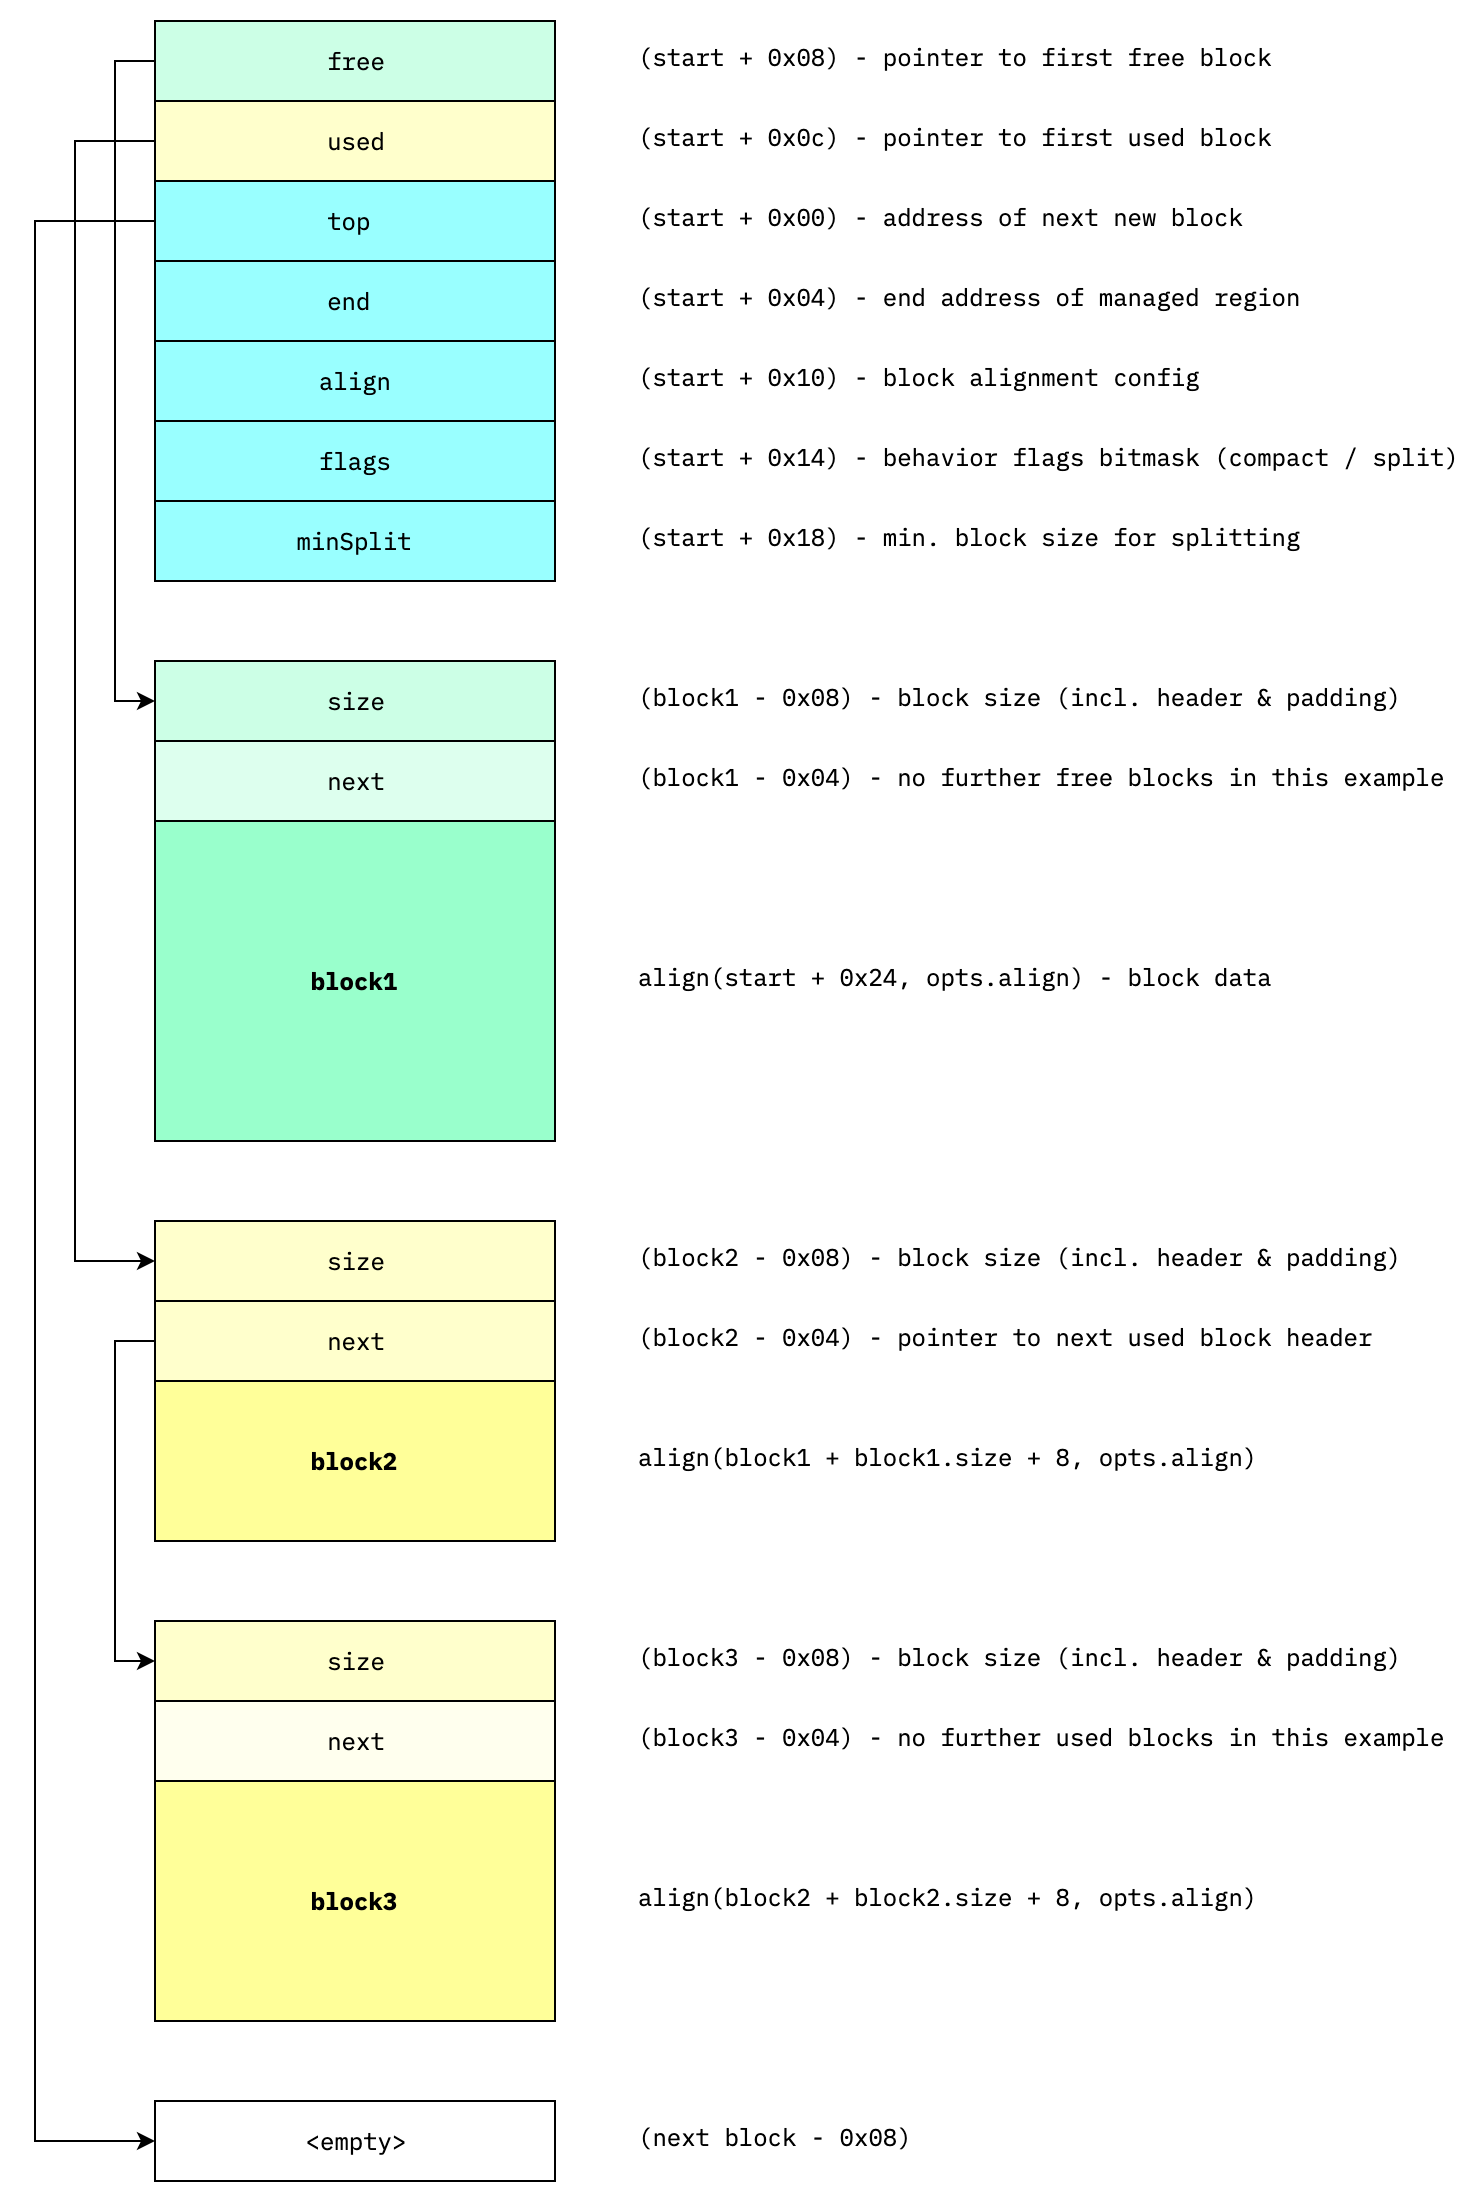
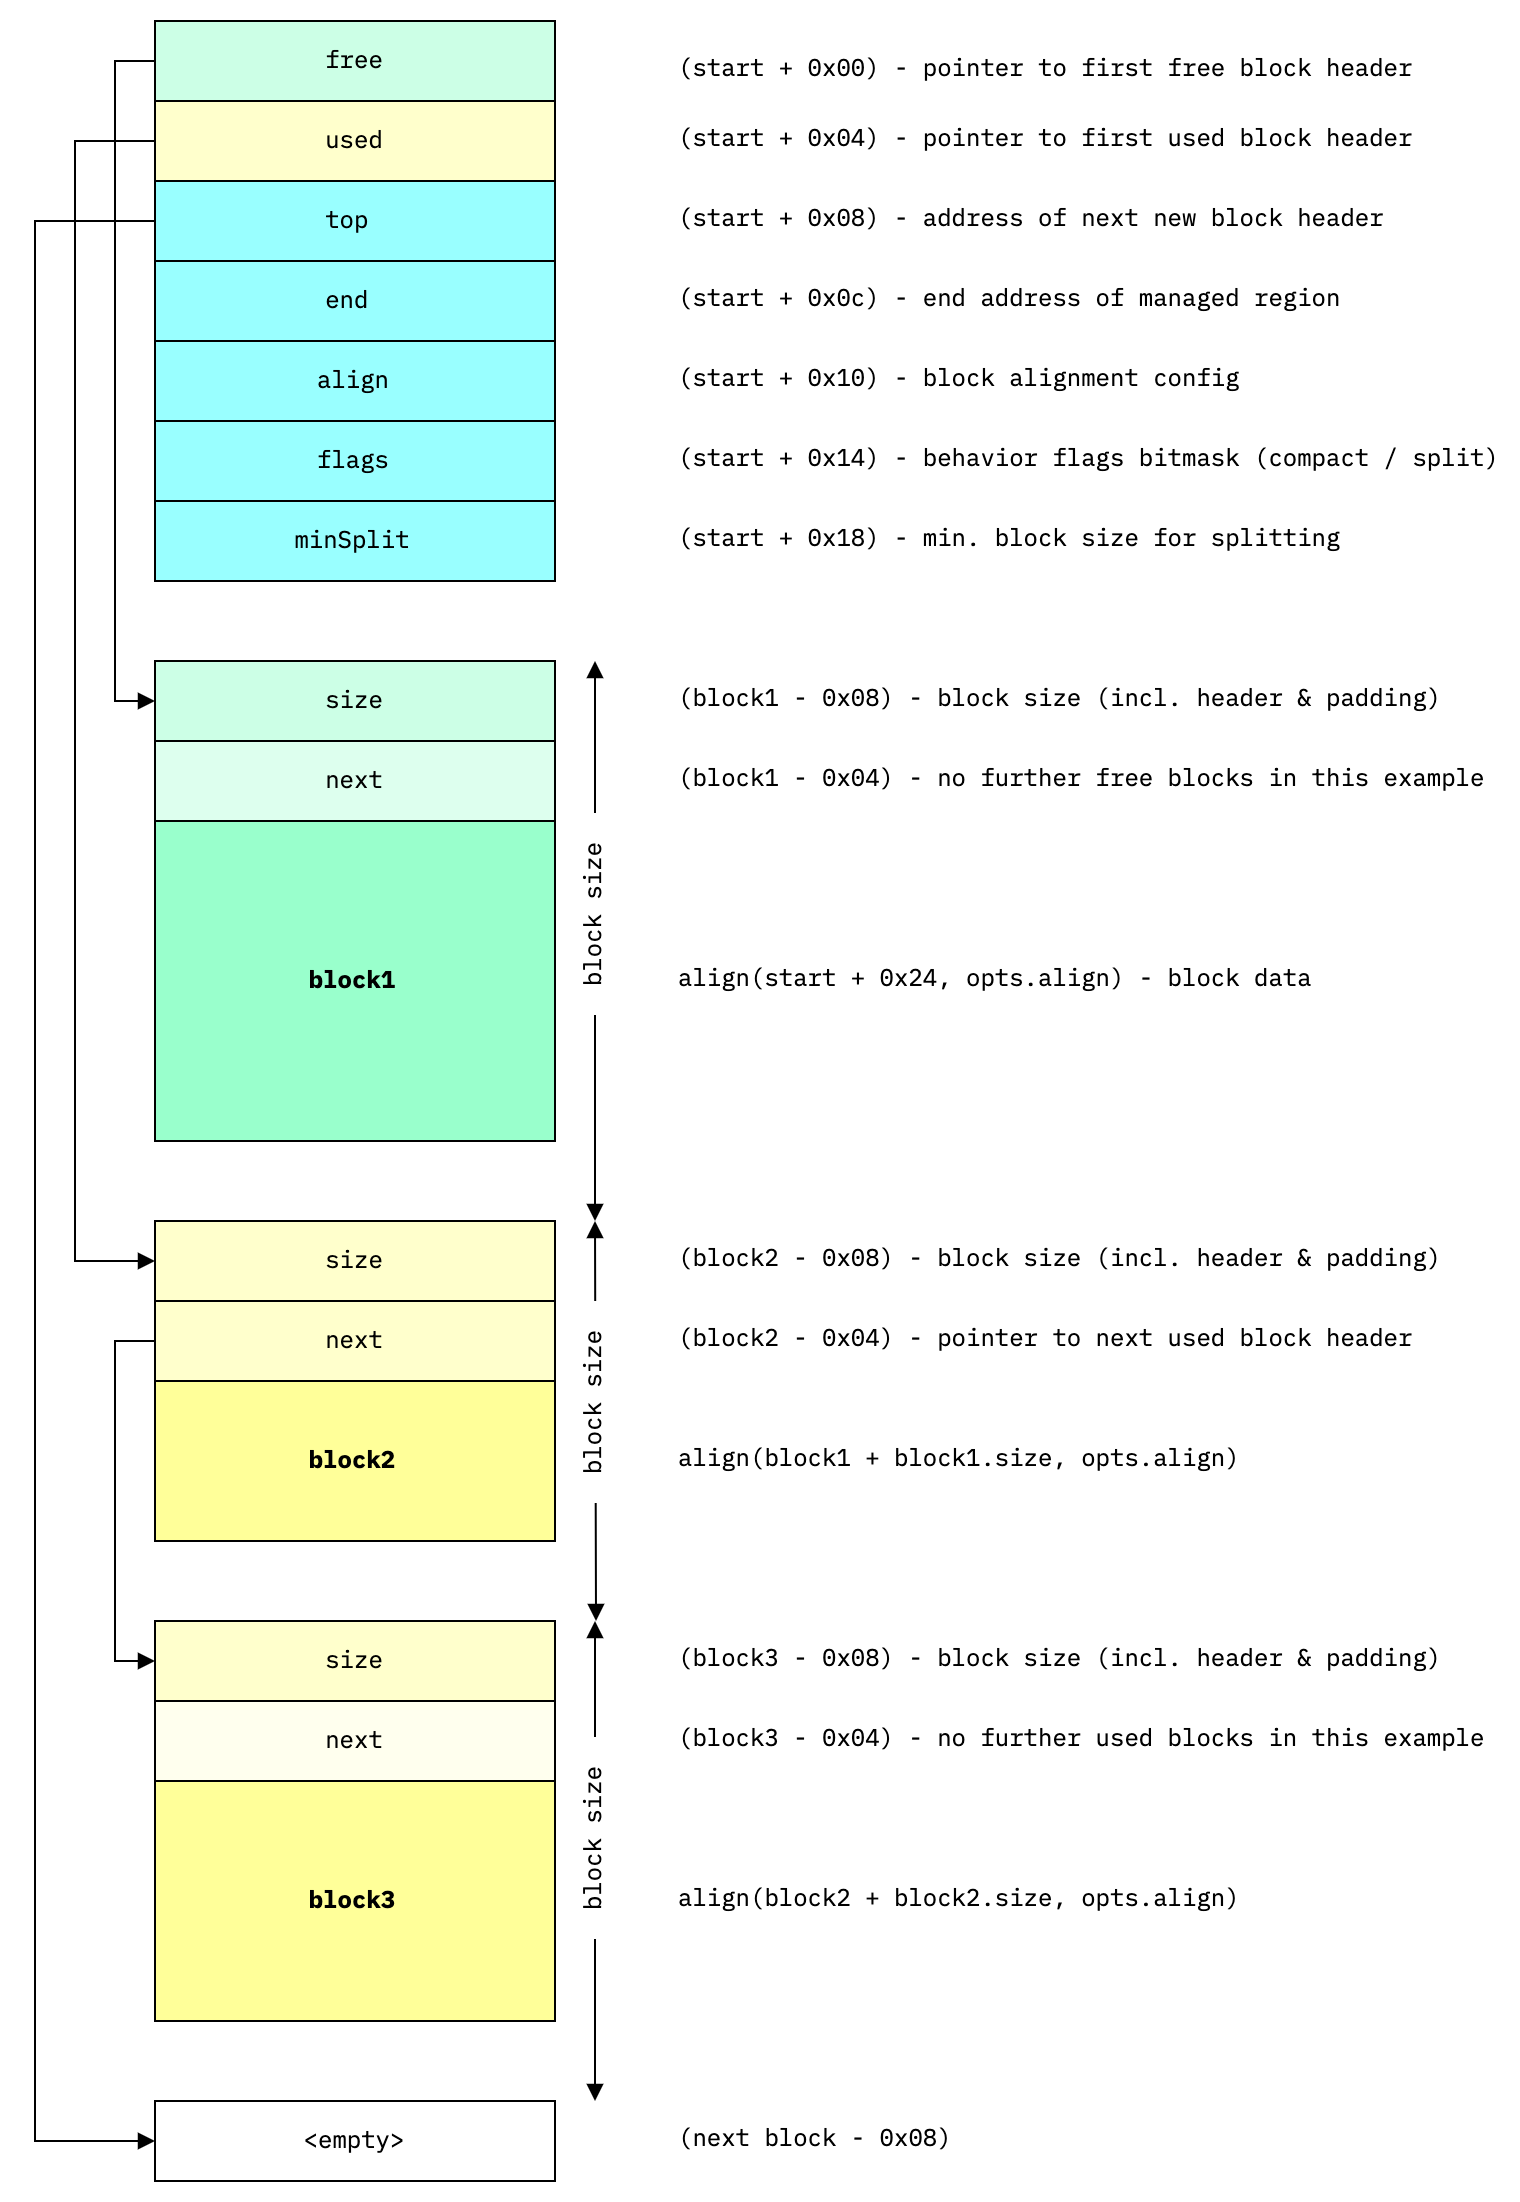
docs(malloc): add/update diagrams, update readme

diff --git a/packages/malloc/README.md b/packages/malloc/README.md
@@ -11,6 +11,8 @@ This project is part of the
 
 - [About](#about)
 - [Memory layout](#memory-layout)
+- [Free block compaction / coalescing](#free-block-compaction--coalescing)
+- [Block splitting](#block-splitting)
 - [Installation](#installation)
 - [Dependencies](#dependencies)
 - [Usage examples](#usage-examples)
@@ -53,7 +55,59 @@ allocation of typed arrays and reduce GC pressure. See
 
 ![Memory layout diagram](https://raw.githubusercontent.com/thi-ng/umbrella/feature/malloc-align/assets/malloc/malloc-layout.png)
 
-TODO
+## Free block compaction / coalescing
+
+The allocator supports coalescing of free memory blocks to minimize
+fragmentation of the managed address space. This feature is enabled by
+default, but can be disabled via config options.
+
+The following diagrams show the different stages of this behavior:
+
+**Initial layout**
+
+In this example we start with three allocated neighboring blocks:
+
+![Block compaction (initial layout)](https://raw.githubusercontent.com/thi-ng/umbrella/feature/malloc-align/assets/malloc/compact-01.png)
+
+**Non-continuous free blocks**
+
+After freeing the first & last blocks, the memory layout is as follows.
+The free blocks are linked, but occupy non-continuous memory regions.
+
+![Block compaction (non-continuous)](https://raw.githubusercontent.com/thi-ng/umbrella/feature/malloc-align/assets/malloc/compact-02.png)
+
+**Single compacted free block**
+
+After also freeing block #2, all three blocks now span a single
+continuous address range and are merged into a single larger free block.
+Furthermore, if that resulting new block turns out to be the top-most
+block (in terms of previously allocated address space), the allocator
+does not create a free block at all, but merely resets its heap `top`
+pointer to the beginning of that block and considers it blank space that
+way.
+
+![Block compaction (result)](https://raw.githubusercontent.com/thi-ng/umbrella/feature/malloc-align/assets/malloc/compact-03.png)
+
+## Block splitting
+
+In order to avoid unnecessary growing of the heap `top`, the allocator
+can split existing free blocks if the user requests allocating a smaller
+size than that of a suitable free block available. If the free block has
+sufficient excess space (configurable via the `minSplit` option), the
+free block will be split, the lower part marked as allocated and
+inserted into the used block list and the excess space inserted as new
+free block back into the free list.
+
+This behavior too is enabled by default, but can be turned off via the
+`split` config option.
+
+Initial example layout:
+
+![Block splitting (initial layout)](https://raw.githubusercontent.com/thi-ng/umbrella/feature/malloc-align/assets/malloc/split-01.png)
+
+Layout after allocating only a smaller size than the free block's capacity:
+
+![Block splitting (result)](https://raw.githubusercontent.com/thi-ng/umbrella/feature/malloc-align/assets/malloc/split-02.png)
 
 ## Installation
 
@@ -66,6 +120,7 @@ yarn add @thi.ng/malloc
 - [@thi.ng/api](https://github.com/thi-ng/umbrella/tree/master/packages/api)
 - [@thi.ng/binary](https://github.com/thi-ng/umbrella/tree/master/packages/binary)
 - [@thi.ng/checks](https://github.com/thi-ng/umbrella/tree/master/packages/checks)
+- [@thi.ng/errors](https://github.com/thi-ng/umbrella/tree/master/packages/errors)
 
 ## Usage examples
 
@@ -83,8 +138,10 @@ const pool = new MemPool({ size: 0x1000, start: 8 });
 ptr = pool.malloc(16);
 // 8
 
-// request memory and return as typed view
+// request memory and return as typed array view
 // in this case we use number of elements, NOT bytes
+// IMPORTANT: there's no guarantee that the returned array's
+// values are zeroed. Use `calloc`/`callocAs` for that purpose
 vec = pool.mallocAs(Type.F64, 4);
 // Float64Array [ 0, 0, 0, 0 ]
 
